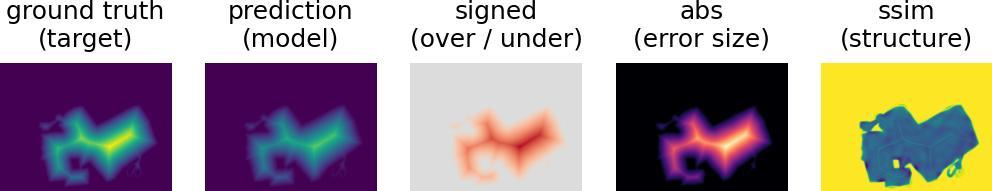
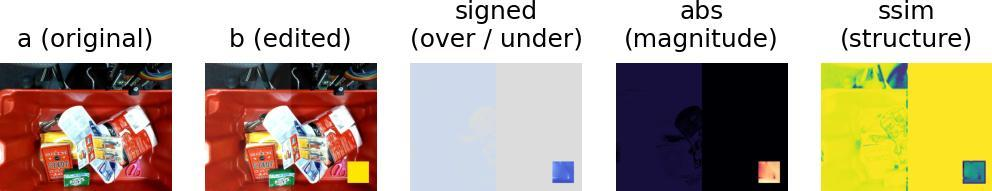
docs: rework diff example around edit detection
The previous example pitched a distance-transform regressor scenario.
Both panels looked nearly identical to the eye, so the diff modes had
nothing to compare against and the three outputs all highlighted the
same blob.

Switch to a deliberate two-edit scenario on the arc2017 RGB image so
each mode visibly does something different: a brightness shift on the
left half (signed/abs respond, ssim downweights), and a flat-color
patch in the lower right (all three respond, ssim most strongly because
local contrast collapses).

diff --git a/examples/diff.py b/examples/diff.py
@@ -2,52 +2,47 @@
 
 import matplotlib.pyplot as plt
 import numpy as np
-import scipy.ndimage
-import skimage.filters
 
 import imgviz
 
 
 def diff() -> None:
-    # Evaluating a distance-transform regressor (the target of watershed-style
-    # instance segmentation): the model predicts, per pixel, the distance to
-    # the object boundary. Here the ground truth is the true distance field and
-    # the prediction stands in for a model that under-predicts large distances
-    # (object interiors are hard) on top of some low-frequency noise.
-    masks = imgviz.data.arc2017()["masks"]
-    foreground = (masks > 0).any(axis=0)
-    ground_truth = scipy.ndimage.distance_transform_edt(foreground).astype(np.float32)
+    # Two edits applied to the same image, chosen so each diff mode tells a
+    # different story:
+    #   * Brighten the left half - a luminance shift that preserves the
+    #     local pattern of edges and textures.
+    #   * Paste a flat color patch in the lower right - a localized
+    #     structural change that wipes out the underlying detail.
+    # signed reveals the direction of the change (a brighter or darker
+    # than b), abs reveals total magnitude weighting the patch and the
+    # brightness shift roughly equally, and ssim downweights the
+    # brightness shift relative to the structural patch (the patch
+    # destroys local contrast, the shift preserves it).
+    a = imgviz.data.arc2017()["rgb"]
+    b = a.copy()
 
-    low_frequency_noise = skimage.filters.gaussian(
-        np.random.RandomState(0).randn(*ground_truth.shape).astype(np.float32),
-        sigma=12,
-        preserve_range=True,
-    )
-    low_frequency_noise *= 6.0 / (np.abs(low_frequency_noise).max() + 1e-8)
-    # Concentrate the error on the objects (the easy background stays exact),
-    # feathering it to zero across the boundary so there is no hard ring.
-    inside = skimage.filters.gaussian(foreground.astype(np.float32), sigma=4)
-    error = (-0.25 * ground_truth + low_frequency_noise) * inside
-    prediction = np.clip(ground_truth + error, 0, None)
+    h, w = b.shape[:2]
+    half = w // 2
+    b[:, :half] = np.clip(b[:, :half].astype(np.int16) + 20, 0, 255).astype(np.uint8)
+    py0, px0 = h - 110, w - 110
+    b[py0 : py0 + 80, px0 : px0 + 80] = (255, 230, 0)
 
-    signed = imgviz.diff(ground_truth, prediction, mode="signed")
-    magnitude = imgviz.diff(ground_truth, prediction, mode="abs")
-    structural = imgviz.diff(ground_truth, prediction, mode="ssim")
-
-    vmax = float(ground_truth.max())
+    signed = imgviz.diff(a, b, mode="signed")
+    magnitude = imgviz.diff(a, b, mode="abs")
+    structural = imgviz.diff(a, b, mode="ssim")
 
     # -------------------------------------------------------------------------
 
     plt.figure(dpi=200)
 
     plt.subplot(151)
-    plt.title("ground truth\n(target)", fontsize=9)
-    plt.imshow(imgviz.colorize(ground_truth, vmin=0, vmax=vmax))
+    plt.title("a (original)", fontsize=9)
+    plt.imshow(a)
     plt.axis("off")
 
     plt.subplot(152)
-    plt.title("prediction\n(model)", fontsize=9)
-    plt.imshow(imgviz.colorize(prediction, vmin=0, vmax=vmax))
+    plt.title("b (edited)", fontsize=9)
+    plt.imshow(b)
     plt.axis("off")
 
     plt.subplot(153)
@@ -56,7 +51,7 @@ def diff() -> None:
     plt.axis("off")
 
     plt.subplot(154)
-    plt.title("abs\n(error size)", fontsize=9)
+    plt.title("abs\n(magnitude)", fontsize=9)
     plt.imshow(magnitude)
     plt.axis("off")
 